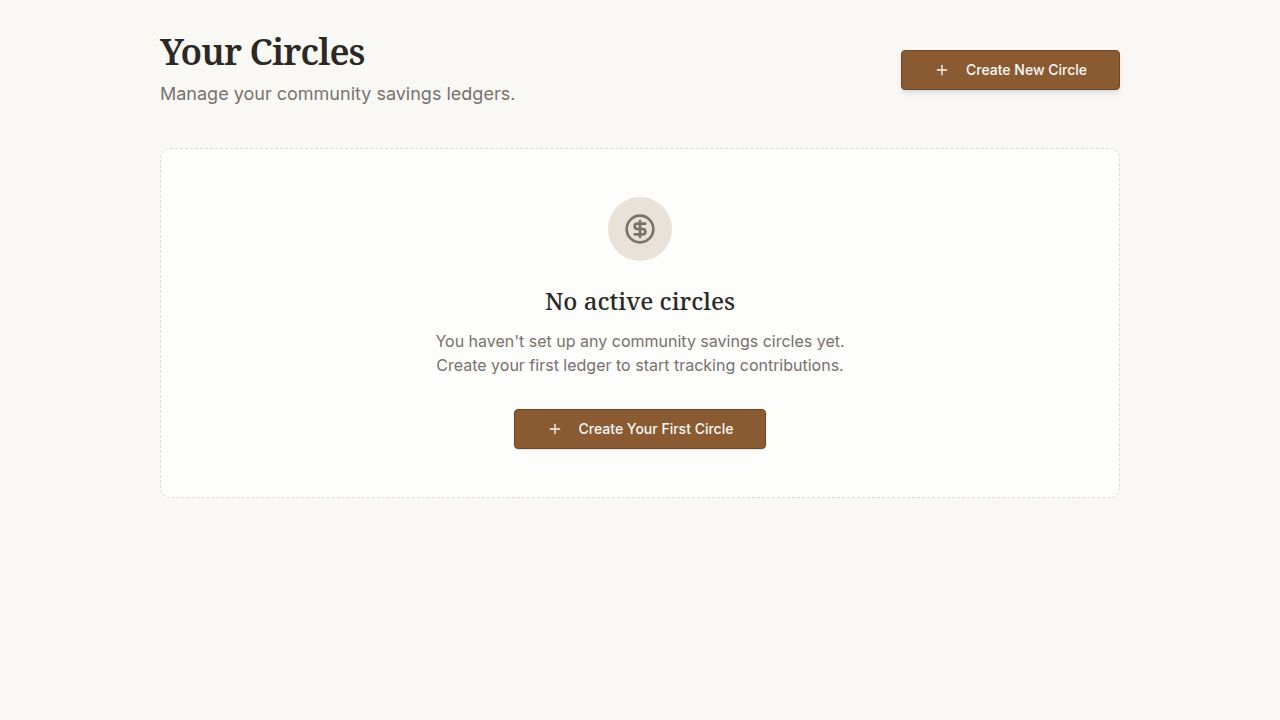
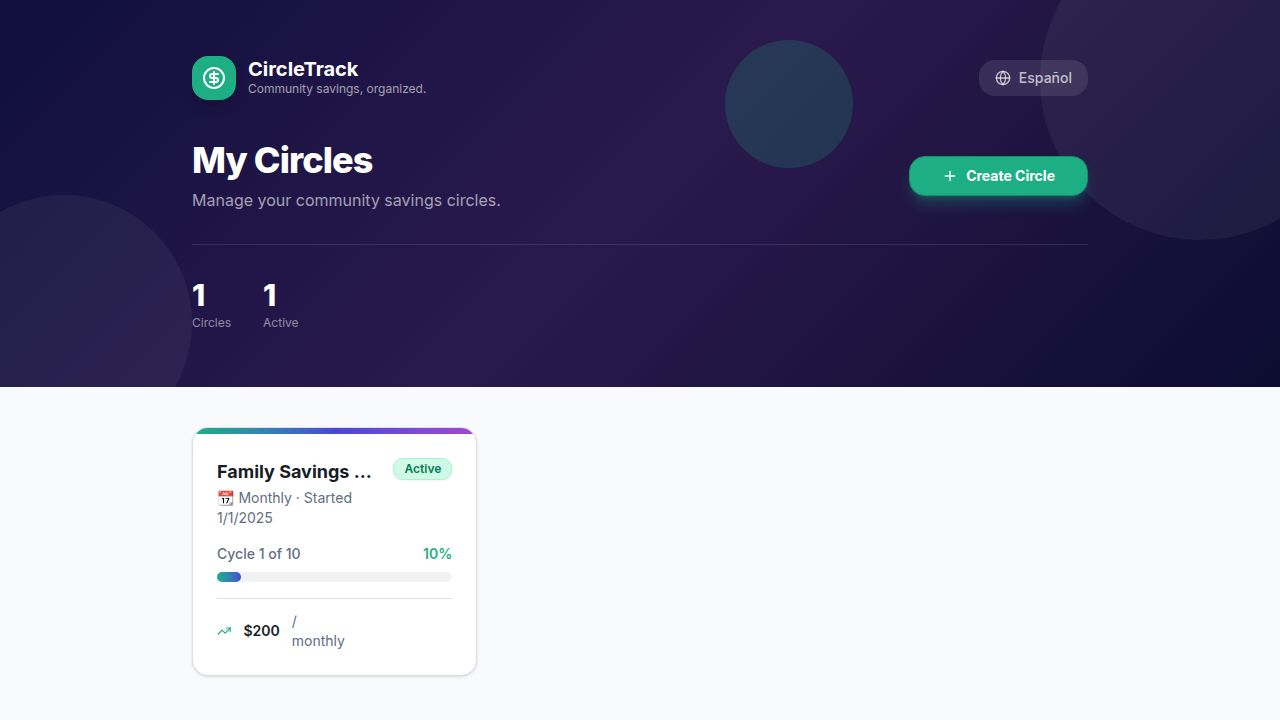
Adapt the app layout for improved mobile portrait usability
Update layout component to introduce a responsive design, implementing a sticky top navigation bar and a bottom tab bar for mobile views, while retaining the desktop sidebar. Modify index.html to enable viewport-fit=cover for iOS safe areas and add a .pb-safe CSS utility class for bottom padding.

Replit-Commit-Author: Agent
Replit-Commit-Session-Id: e019ea73-8e5f-4285-ade7-2ecf29f1a377
Replit-Commit-Checkpoint-Type: full_checkpoint
Replit-Commit-Event-Id: f5a556ce-fcf0-40a5-a991-53d96c4865c3
Replit-Commit-Screenshot-Url: https://storage.googleapis.com/screenshot-production-us-central1/a28acc6e-3080-4341-9633-196d7060ff5c/e019ea73-8e5f-4285-ade7-2ecf29f1a377/M7W938J
Replit-Helium-Checkpoint-Created: true

diff --git a/artifacts/rosca-manager/src/components/layout.tsx b/artifacts/rosca-manager/src/components/layout.tsx
@@ -34,13 +34,14 @@ export function Layout({ children }: LayoutProps) {
   }
 
   return (
-    <div className="flex min-h-[100dvh] w-full flex-col md:flex-row">
-      {/* Sidebar */}
-      <aside className="w-full md:w-64 bg-sidebar shrink-0 md:h-screen md:sticky md:top-0 overflow-y-auto shadow-xl">
-        <div className="p-6 flex flex-col h-full min-h-[100dvh] md:min-h-screen">
+    <div className="flex min-h-[100dvh] w-full">
+
+      {/* ── DESKTOP SIDEBAR (hidden on mobile) ── */}
+      <aside className="hidden md:flex md:w-64 bg-sidebar shrink-0 h-screen sticky top-0 overflow-y-auto shadow-xl flex-col">
+        <div className="p-6 flex flex-col h-full">
           {/* Logo */}
           <div className="flex items-center gap-3 mb-8">
-            <div className="bg-sidebar-primary text-sidebar-primary-foreground w-10 h-10 rounded-xl flex items-center justify-center shadow-lg font-bold text-lg">
+            <div className="bg-sidebar-primary text-sidebar-primary-foreground w-10 h-10 rounded-xl flex items-center justify-center shadow-lg">
               <CircleDollarSign className="w-6 h-6" />
             </div>
             <div>
@@ -102,12 +103,72 @@ export function Layout({ children }: LayoutProps) {
         </div>
       </aside>
 
-      {/* Main Content */}
-      <main className="flex-1 flex flex-col min-w-0 overflow-hidden bg-background">
-        <div className="flex-1 p-6 md:p-10 max-w-6xl w-full mx-auto">
-          {children}
-        </div>
-      </main>
+      {/* ── MOBILE + DESKTOP CONTENT COLUMN ── */}
+      <div className="flex-1 flex flex-col min-h-[100dvh] min-w-0">
+
+        {/* Mobile top bar (hidden on desktop) */}
+        <header className="md:hidden sticky top-0 z-30 bg-sidebar shadow-md flex items-center justify-between px-4 py-3 shrink-0">
+          {/* Left: back to all circles */}
+          <Link href="~/">
+            <div className="flex items-center gap-1 text-sidebar-foreground/70 active:text-sidebar-foreground transition-colors">
+              <ChevronLeft className="w-5 h-5" />
+              <span className="text-sm font-medium">{t.allCircles}</span>
+            </div>
+          </Link>
+
+          {/* Center: logo */}
+          <div className="flex items-center gap-2">
+            <div className="bg-sidebar-primary text-sidebar-primary-foreground w-7 h-7 rounded-lg flex items-center justify-center">
+              <CircleDollarSign className="w-4 h-4" />
+            </div>
+            <span className="text-sidebar-foreground font-bold text-base">{t.appName}</span>
+          </div>
+
+          {/* Right: language toggle */}
+          <button
+            onClick={() => setLang(lang === "en" ? "es" : "en")}
+            className="flex items-center gap-1 text-sidebar-foreground/70 active:text-sidebar-foreground transition-colors text-sm font-medium"
+          >
+            <Globe className="w-4 h-4" />
+          </button>
+        </header>
+
+        {/* Main scrollable content */}
+        <main className="flex-1 overflow-y-auto bg-background">
+          {/* Extra bottom padding on mobile so content isn't hidden behind bottom tab bar */}
+          <div className="p-5 md:p-10 max-w-6xl w-full mx-auto pb-28 md:pb-10">
+            {children}
+          </div>
+        </main>
+
+        {/* ── MOBILE BOTTOM TAB BAR (hidden on desktop) ── */}
+        {roscaId && (
+          <nav className="md:hidden fixed bottom-0 inset-x-0 z-30 bg-sidebar border-t border-sidebar-border/30 shadow-2xl">
+            {/* Safe-area padding for iOS home indicator */}
+            <div className="flex items-stretch pb-safe">
+              {navItems.map((item) => {
+                const active = isActive(item.path);
+                return (
+                  <Link key={item.path} href={item.path} className="flex-1">
+                    <div className={`flex flex-col items-center justify-center gap-0.5 py-2.5 transition-colors ${
+                      active
+                        ? "text-sidebar-primary"
+                        : "text-sidebar-foreground/50 active:text-sidebar-foreground"
+                    }`}>
+                      {/* Active indicator pill */}
+                      <div className={`mb-0.5 h-0.5 w-8 rounded-full transition-all ${active ? "bg-sidebar-primary" : "bg-transparent"}`} />
+                      <item.icon className={`w-5 h-5 ${active ? "stroke-[2.5]" : "stroke-[1.5]"}`} />
+                      <span className={`text-[10px] font-semibold tracking-wide mt-0.5 ${active ? "text-sidebar-primary" : ""}`}>
+                        {item.label}
+                      </span>
+                    </div>
+                  </Link>
+                );
+              })}
+            </div>
+          </nav>
+        )}
+      </div>
     </div>
   );
 }

diff --git a/artifacts/rosca-manager/index.html b/artifacts/rosca-manager/index.html
@@ -2,7 +2,7 @@
 <html lang="en">
   <head>
     <meta charset="UTF-8" />
-    <meta name="viewport" content="width=device-width, initial-scale=1.0, maximum-scale=1" />
+    <meta name="viewport" content="width=device-width, initial-scale=1.0, maximum-scale=1, viewport-fit=cover" />
 
     <title>CircleTrack</title>
     <meta name="description" content="Community savings circles, organized." />

diff --git a/artifacts/rosca-manager/src/index.css b/artifacts/rosca-manager/src/index.css
@@ -241,3 +241,10 @@
     background: linear-gradient(135deg, hsl(0 72% 96%) 0%, hsl(0 72% 90%) 100%);
   }
 }
+
+@layer utilities {
+  /* iOS safe-area bottom inset for home indicator */
+  .pb-safe {
+    padding-bottom: env(safe-area-inset-bottom, 0px);
+  }
+}
